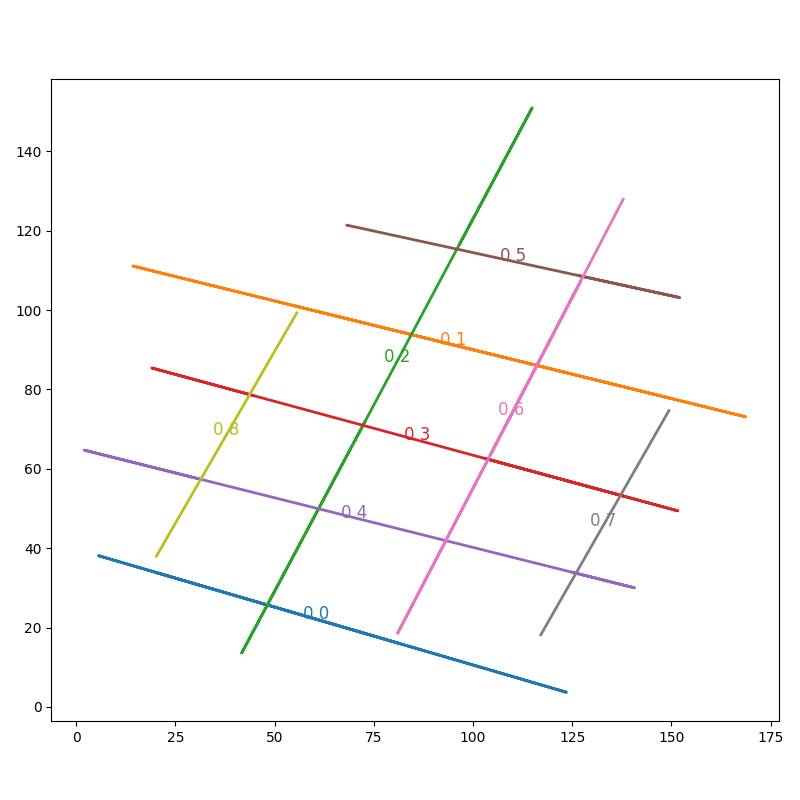
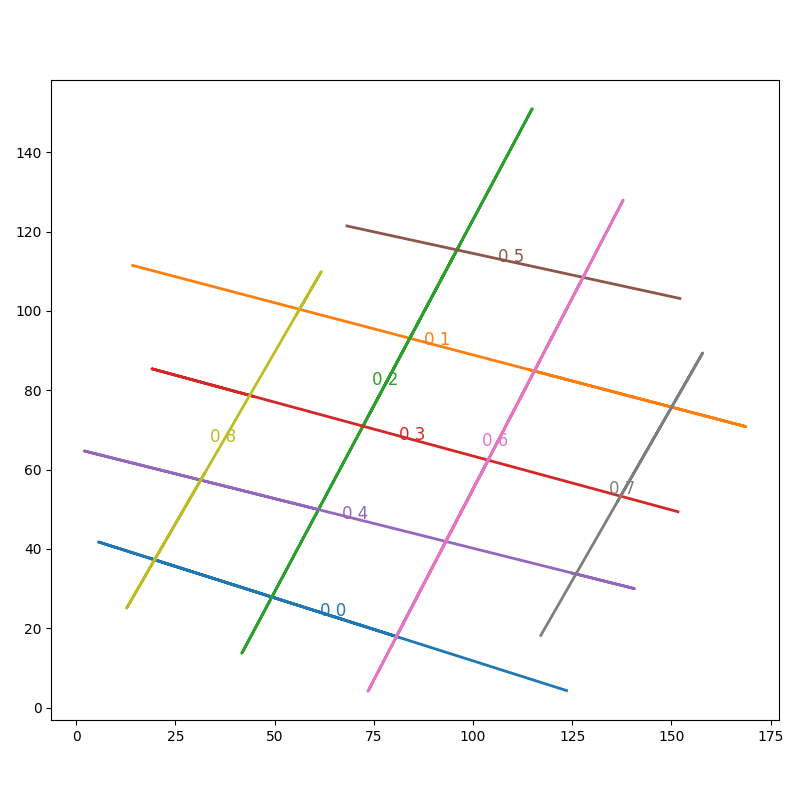
frag2_completed 100%

diff --git a/scripts/curve_completion.py b/scripts/curve_completion.py
@@ -3,6 +3,7 @@ from helper import read_csv, plot_simple, plot
 from matplotlib import pyplot as plt
 from detect_shapes import fit_shape, calculate_polygon_error, fit_line
 import numpy as np
+import math
 
 # Try fitting shapes to the connected polylines for completion
 def complete_curves(polylines):
@@ -36,13 +37,33 @@ def complete_curves(polylines):
                             new_points = np.concatenate((polyline, fitted_shapes[1]), axis=0)
                         else:
                             new_points = np.concatenate((polyline, fitted_shapes[1][::-1]), axis=0)
+                        
+                        if len(new_points) > 2:
+                            # Check if the polyline is truly a valid line
+                            error, best_points, cur_slope_intercept = fit_line(polyline)
+                            if error < 5:
+                                fit_slope_intercept = fitted_shapes[4][0]
+                                fit_slope = fit_slope_intercept[0]
+                                cur_slope = cur_slope_intercept[0][0]
+
+                                # Calculate the angle between the two slopes
+                                angle_radians = math.atan(abs((fit_slope - cur_slope) / (1 + fit_slope * cur_slope)))
+
+                                # Convert angle from radians to degrees
+                                angle_degrees = math.degrees(angle_radians)
+
+                                # Check if the angle is greater than or equal to 30 degrees
+                                if angle_degrees >= 40:
+                                    # Continue with your process
+                                    continue
+
                         _, best_points, symmetry_lines = fit_line(new_points)
                         fitted_shapes[0] = fitted_shapes[0].union({i})
                         result[j] = [fitted_shapes[0], new_points, best_points, "line", symmetry_lines]
                         flag = True
                         break
 
-                if calculate_polygon_error(polyline, fitted_shapes[2]) < 10:
+                elif calculate_polygon_error(polyline, fitted_shapes[2]) < 10:
                     e11, e12 = polyline[0], polyline[-1]
                     e21, e22 = fitted_shapes[1][0], fitted_shapes[1][-1]
                     if points_are_close(e11, e21):
@@ -71,7 +92,7 @@ def complete_curves(polylines):
 
 if __name__ == '__main__':
     # Load the data
-    path = r'problems\problems\frag2.csv'
+    path = r'problems\problems\occlusion2.csv'
     polylines = read_csv(path)
 
     # Split into disjoint polylines
@@ -88,5 +109,8 @@ if __name__ == '__main__':
     names = [r[3] for r in result]
     best_symmetry_lines = [r[4] for r in result]
 
-    plot_simple([completed_polylines], path.split('\\')[-1].split('.')[0] + '_completed.png')
-    # plot([completed_polylines], path.split('\\')[-1].split('.')[0] + '_completed.png', names, best_symmetry_lines)
+    # Preferably use plot_simple for simple plots
+    # plot_simple([completed_polylines], path.split('\\')[-1].split('.')[0] + '_completed.png')
+
+    # Preferably use plot for complex plots
+    plot([completed_polylines], path.split('\\')[-1].split('.')[0] + '_completed.png', names, best_symmetry_lines)

diff --git a/scripts/detect_shapes.py b/scripts/detect_shapes.py
@@ -13,6 +13,7 @@ def points_are_close(p1, p2, tol=1e-5):
     return distance < tol
 
 def calculate_polygon_error(original_points, fitted_points):
+    # print(len(original_points), len(fitted_points))
     fitted_polygon = Polygon(fitted_points).exterior
     distances = [fitted_polygon.distance(Point(p)) for p in original_points]
     return np.mean(distances)
@@ -82,11 +83,11 @@ def fit_shape(points):
     best_points = errors[0][2]
     symmetry_lines = errors[0][3]
 
-    if errors[1][0] == "line" and abs(errors[1][1] - lowest_error) < 0.075:
+    if abs(line_error - lowest_error) < 0.2:
         best_shape = "line"
-        best_points = errors[1][2]
-        symmetry_lines = errors[1][3]
-        lowest_error = errors[1][1]
+        best_points = line_points
+        symmetry_lines = line_symmetry
+        lowest_error = line_error
 
     print(f"Errors: line={line_error:.2f}, rectangle={rectangle_error:.9f}, ellipse={ellipse_error:.2f}, "
           f"star={star_error:.2f}, triangle={triangle_error:.2f}, "
@@ -105,7 +106,7 @@ def fit_line(points):
     c_y_on_x = model_y_on_x.intercept_
     line_y_on_x = m_y_on_x * x + c_y_on_x
     line_points_y_on_x = np.column_stack((x, line_y_on_x))
-    error_y_on_x = calculate_polygon_error(points, line_points_y_on_x)
+    error_y_on_x = np.mean(np.abs(line_y_on_x - y))
     
     # Fit x on y
     X_x_on_y = y.reshape(-1, 1)
@@ -114,7 +115,7 @@ def fit_line(points):
     c_x_on_y = model_x_on_y.intercept_
     line_x_on_y = (x - c_x_on_y) / m_x_on_y
     line_points_x_on_y = np.column_stack((line_x_on_y, y))
-    error_x_on_y = calculate_polygon_error(points, line_points_x_on_y)
+    error_x_on_y = np.mean(np.abs(line_x_on_y - x))
     
     # Choose the best fit
     if error_y_on_x < error_x_on_y:
@@ -129,6 +130,8 @@ def fit_line(points):
     return best_error, best_line_points, best_symmetry_lines
 
 def fit_rectangle(points):
+    if len(points) < 4:
+        return float('inf'), points, []
     multi_point = MultiPoint(points)
     rect = multi_point.minimum_rotated_rectangle
     rect_points = np.array(rect.exterior.coords)

diff --git a/scripts/split_disjoint.py b/scripts/split_disjoint.py
@@ -271,21 +271,22 @@ def extend_and_connect_polylines(disjoint_polylines, angle_threshold=20):
     return extended_polylines
 
 # Sample usage
-path = r'problems\problems\frag2.csv'
-polylines = read_csv(path)
-disjoint_polylines = split_polylines_to_disjoint(polylines)
-extended_polylines = extend_and_connect_polylines(disjoint_polylines)
+# path = r'problems\problems\frag2.csv'
+# polylines = read_csv(path)
+# disjoint_polylines = split_polylines_to_disjoint(polylines)
+# extended_polylines = extend_and_connect_polylines(disjoint_polylines)
 
-print(f"Original polylines: {len(polylines)}")
-print(f"Disjoint polylines: {len(disjoint_polylines)}")
-print(f"Extended polylines: {len(extended_polylines)}")
+# print(f"Original polylines: {len(polylines)}")
+# print(f"Disjoint polylines: {len(disjoint_polylines)}")
+# print(f"Extended polylines: {len(extended_polylines)}")
 
-# Visualization
-plt.figure()
+# extended_polylines.sort(key=lambda x: len(x), reverse=True)
+# # Visualization
+# plt.figure()
 
-for i, polyline in enumerate(extended_polylines):
-    plt.plot(polyline[:, 0], polyline[:, 1], label=f'Polyline {i}')
-    midpoint = np.mean(polyline, axis=0)
-    plt.text(midpoint[0], midpoint[1], f'{i}', fontsize=12)
+# for i, polyline in enumerate(extended_polylines):
+#     plt.plot(polyline[:, 0], polyline[:, 1], label=f'Polyline {i}')
+#     midpoint = np.mean(polyline, axis=0)
+#     plt.text(midpoint[0], midpoint[1], f'{i}', fontsize=12)
     
-plt.show()
+# plt.show()

diff --git a/scripts/helper.py b/scripts/helper.py
@@ -51,7 +51,7 @@ def plot(paths_XYs, filename, names, symmetries):
                 ax.plot(x_vals, y_vals, c + '--', linewidth=1)
         
     ax.set_aspect('equal')
-    # plt.savefig(f'misc-outputs/{filename}')
+    plt.savefig(f'misc-outputs/{filename}')
     plt.show()
 
 def plot_simple(paths_XYs, filename=''):
